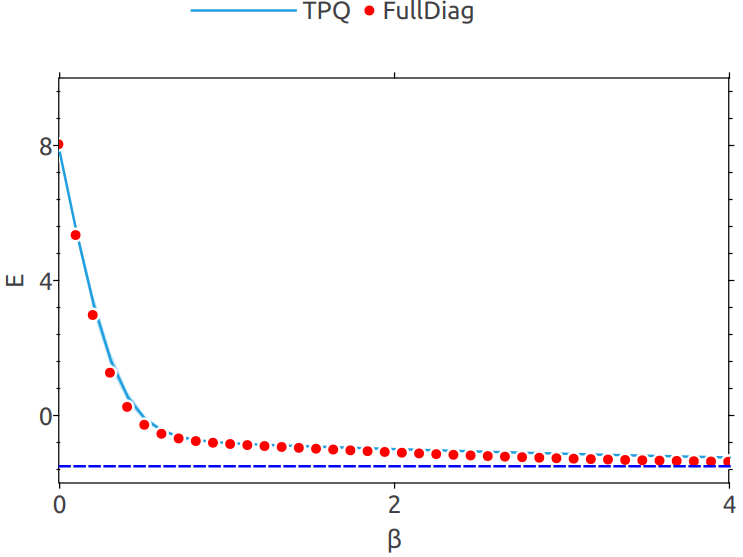
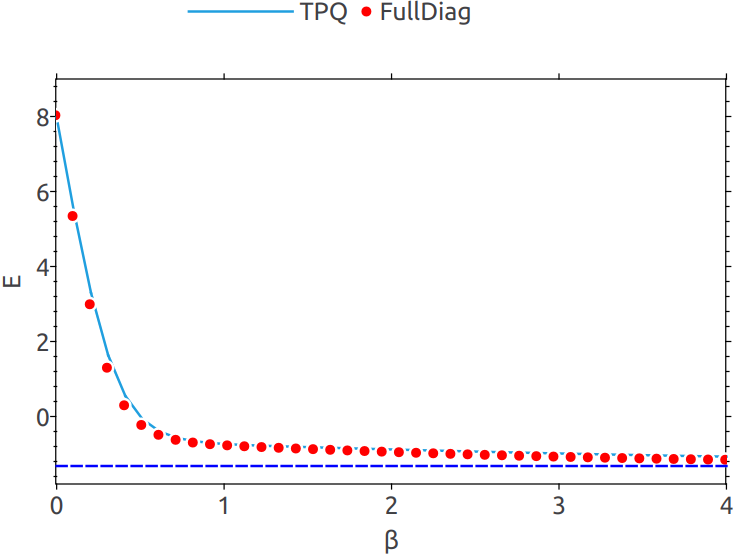
TPQ: Avoid underflow

diff --git a/include/Physica/Core/Physics/ManyBody/TPQ.h b/include/Physica/Core/Physics/ManyBody/TPQ.h
@@ -39,7 +39,8 @@ namespace Physica::Core {
 
         RealType beta;
         RealType traceMu;
-        std::pair<int, int> params;
+        int numMinCostTerm;
+        int numSplit;
     public:
         TPQ(size_t length);
         TPQ(const This&) = default;
@@ -58,14 +59,14 @@ namespace Physica::Core {
         void swap(This& __restrict obj) noexcept;
 
         template<class RandomGenerator>
-        inline void random_uniform(RandomGenerator& gen);
-        template<class RandomGenerator>
         inline void random_normal(RandomGenerator& gen);
         template<class Distribution, class RandomGenerator>
         inline void random_any(Distribution& dist, RandomGenerator& gen);
+        /* Getters */
+        [[nodiscard]] RealType getTraceMu() const noexcept { return traceMu; }
+        [[nodiscard]] int getNumMinCostTerm() const noexcept { return numMinCostTerm; }
+        [[nodiscard]] int getNumSplit() const noexcept { return numSplit; }
         /* Static members */
-        template<class RandomGenerator>
-        [[nodiscard]] static This random_uniform(size_t len, RandomGenerator& gen);
         template<class RandomGenerator>
         [[nodiscard]] static This random_normal(size_t len, RandomGenerator& gen);
         template<class Distribution, class RandomGenerator>
@@ -77,7 +78,8 @@ namespace Physica::Core {
             : Base(length)
             , beta(0)
             , traceMu(std::numeric_limits<RealType>::max())
-            , params(std::make_pair(0, 0)) {
+            , numMinCostTerm(0)
+            , numSplit(0) {
         assert(length > 0 && "[Error]: Invalid length");
     }
 
@@ -90,7 +92,9 @@ namespace Physica::Core {
         const auto expr2 = exp(expr1);
         const auto expr3 = expr2 * (*this);
         traceMu = expr3.calcTraceMu();
-        params = expr3.template calcParam<Executor>(traceMu);
+        const auto params = expr3.template calcParam<Executor>(traceMu);
+        numMinCostTerm = params.first;
+        numSplit = params.second;
     }
 
     template<class ScalarType>
@@ -107,7 +111,7 @@ namespace Physica::Core {
         const auto expr3 = expr2 * (*this);
         BufferType dot(Base::getLength());
         if (isPrepared)
-            expr3.template assignTo<BufferType, Executor>(dot, traceMu, params);
+            expr3.template assignTo<BufferType, Executor>(dot, traceMu, std::make_pair(numMinCostTerm, numSplit));
         else
             expr3.template assignTo<BufferType, Executor>(dot);
         Base::swap(dot);
@@ -121,6 +125,9 @@ namespace Physica::Core {
 
     template<class ScalarType>
     inline typename TPQ<ScalarType>::RealType TPQ<ScalarType>::lnPartitionZ() const {
+        const bool isUnderflow = abs(*this).min().isZero();
+        if (isUnderflow)
+            return RealType(-std::numeric_limits<ScalarType>::max());
         return Base::lnSquaredNorm() + ln(RealType(Base::getLength()));
     }
 
@@ -130,14 +137,8 @@ namespace Physica::Core {
         Base::swap(*this);
         beta.swap(obj.beta);
         traceMu.swap(obj.traceMu);
-        std::swap(params, obj.params);
-    }
-
-    template<class ScalarType>
-    template<class RandomGenerator>
-    inline void TPQ<ScalarType>::random_uniform(RandomGenerator& gen) {
-        Base::random_uniform(gen);
-        Base::toUnit();
+        std::swap(numMinCostTerm, obj.numMinCostTerm);
+        std::swap(numSplit, obj.numSplit);
     }
 
     template<class ScalarType>
@@ -152,14 +153,6 @@ namespace Physica::Core {
     inline void TPQ<ScalarType>::random_any(Distribution& dist, RandomGenerator& gen) {
         Base::random_any(dist, gen);
         Base::toUnit();
-    }
-
-    template<class ScalarType>
-    template<class RandomGenerator>
-    TPQ<ScalarType> TPQ<ScalarType>::random_uniform(size_t len, RandomGenerator& gen) {
-        This result(len);
-        result.random_uniform(gen);
-        return result;
     }
 
     template<class ScalarType>

diff --git a/examples/Core/Physics/ManyBody/TPQ.cpp b/examples/Core/Physics/ManyBody/TPQ.cpp
@@ -35,7 +35,7 @@ constexpr unsigned int NumSpinUp = NumSite / 2;
 constexpr unsigned int NumSpinDown = NumSite / 2;
 constexpr double HoppingT = 1.0;
 constexpr double repelU = 8.0;
-constexpr unsigned int NumSample = 8;
+constexpr unsigned int NumSample = 100;
 constexpr unsigned int NumSystem = 6;
 constexpr unsigned int NumBeta = 40;
 using ReprType = SpinRepr<1, NumSite, NumSpinUp == NumSpinDown>;
@@ -59,6 +59,7 @@ VectorType energyTPQ(const Hamilton& hamilton, ScalarType deltaBeta) {
     auto& gen = RandomPoolType::getInstance().getGen();
     VectorType energys(NumBeta);
     auto psi = TPQ<ScalarType>::random_normal(hamilton.getNumState(), gen);
+    psi.pre_nvt_step(hamilton, deltaBeta);
     for (size_t i = 0; i < NumBeta; ++i) {
         if (i != 0)
             psi.nvt_step(hamilton, deltaBeta);
@@ -83,7 +84,7 @@ int main(int argc, char** argv) {
     }
 
     QApplication app(argc, argv);
-    Plot* plot = new Plot(0, 4, -2, 10, 2, 4);
+    Plot* plot = new Plot(0, 4, -1.8, 9, 1, 2);
     auto* axisX = plot->getAxisX();
     auto* axisY = plot->getAxisY();
     axisX->setTitleText("&beta;");
@@ -91,7 +92,7 @@ int main(int argc, char** argv) {
     axisY->setTitleText("E");
     axisY->setLabelFormat("%d");
     {
-        const VectorType devia = sqrt(vars);
+        const VectorType devia = sqrt(vars) * ScalarType(2);
         auto& area = plot->area_center(betas, means, devia);
         const auto original = area.color();
         auto areaColor = original;
